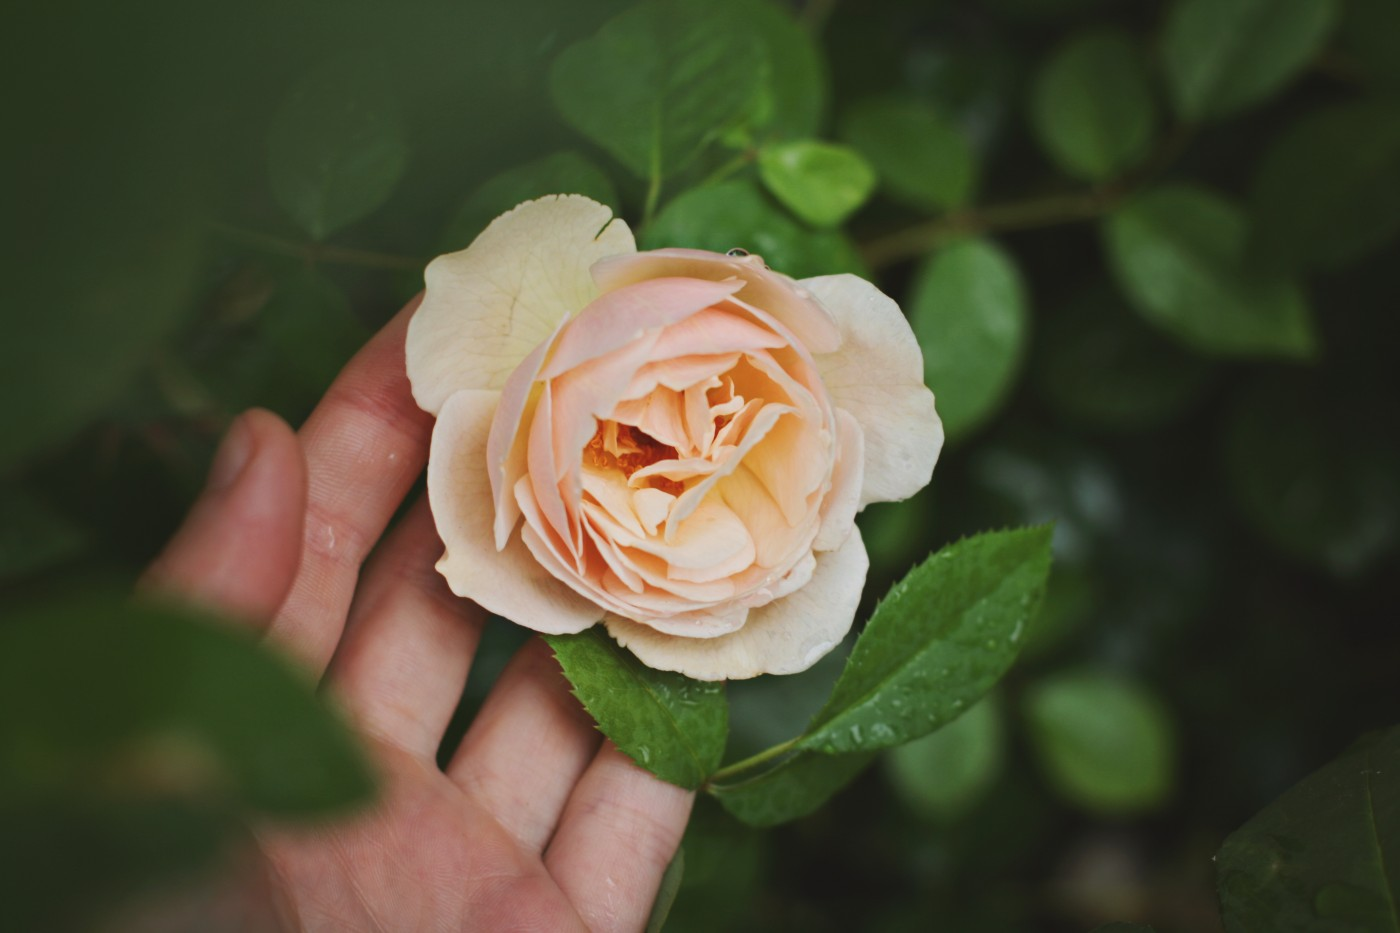
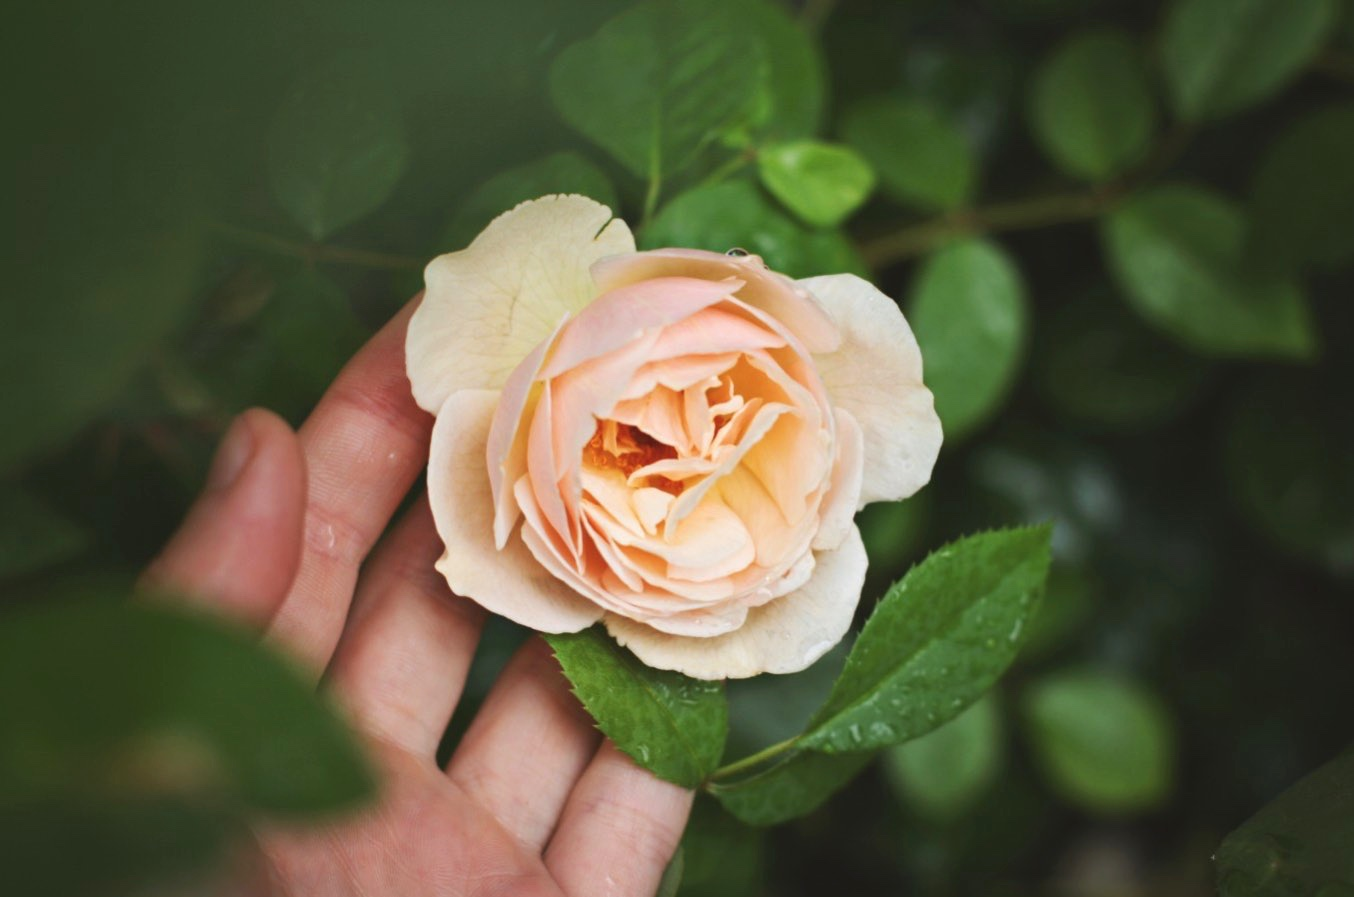
WIP changes to homepage

diff --git a/public/css/site.css b/public/css/site.css
@@ -936,20 +936,22 @@ body.home {
     color: white; }
 
 .section--first {
-  background-image: url("../../images/home-flower.jpg");
+  background-image: url("../../images/home-flower-darker.jpg");
   background-repeat: no-repeat;
   background-size: cover;
   background-position: center center;
-  min-height: 80%;
-  padding: 12em 1em 4em 1em; }
+  padding: 12em 1em 4em 1em;
+  min-height: 768px; }
   @media only screen and (max-width: 480px) {
     .section--first {
       padding: 8em 1.5em 3em 1.5em; } }
+  .section--first > div {
+    max-width: 800px; }
 
 .introduction {
   color: white; }
   .introduction .button {
-    margin-bottom: 1.5rem; }
+    margin: 2.5em 0 2.9em 0; }
 
 .introduction--logo-white {
   display: block;
@@ -991,17 +993,30 @@ body.home {
       transform: scale(1.05); }
 
 .introduction__headline {
-  font-size: 2.3em;
-  text-shadow: 1px 1px 1px rgba(0, 0, 0, 0.4); }
+  font-family: "Diehl Deco";
+  font-size: 2.6em;
+  text-shadow: 1px 1px 1px rgba(0, 0, 0, 0.4);
+  margin-bottom: .4em; }
   @media only screen and (max-width: 480px) {
     .introduction__headline {
       font-size: 2em; } }
 
-.scroll-instructions {
+.introduction__subheadline {
   font-family: "Learning Curve Pro";
+  text-align: center;
   line-height: .8;
-  font-size: 2.8em;
-  margin: 0 0 1em 0;
+  font-size: 3.3em;
+  margin-bottom: 0;
+  color: white;
+  text-shadow: 1px 1px 1px rgba(0, 0, 0, 0.4); }
+  @media only screen and (max-width: 480px) {
+    .introduction__subheadline {
+      font-size: 2.4em; } }
+
+.scroll-instructions {
+  line-height: .8;
+  font-size: 1.6em;
+  margin: 0 0 0.5em 0;
   text-shadow: 1px 1px 1px rgba(0, 0, 0, 0.4);
   text-align: center !important; }
   @media only screen and (max-width: 40em) {

diff --git a/public/styles/site/_homepage.scss b/public/styles/site/_homepage.scss
@@ -29,21 +29,24 @@ body.home {
 }
 
 .section--first {
-    background-image: url('../../images/home-flower.jpg');
+    background-image: url('../../images/home-flower-darker.jpg');
     background-repeat: no-repeat;
     background-size: cover;
     background-position: center center;
-    min-height: 80%;
     padding: 12em 1em 4em 1em;
+    min-height: 768px;
     @media only screen and (max-width: 480px) {
         padding: 8em 1.5em 3em 1.5em;
+    }
+    & > div {
+      max-width: 800px;
     }
 }
 
 .introduction {
     color: white;
     .button {
-        margin-bottom: 1.5rem;
+        margin: 2.5em 0 2.9em 0;
     }
 }
 
@@ -85,17 +88,31 @@ body.home {
 }
 
 .introduction__headline {
-    font-size: 2.3em;
+    font-family: $display-font;
+    font-size: 2.6em;
     text-shadow: $text-shadow-style;
+    margin-bottom: .4em;
     @media only screen and (max-width: 480px) {
         font-size: 2em;
     }
 }
+.introduction__subheadline {
+  font-family: $cursive;
+  text-align: center;
+  line-height: .8;
+  font-size: 3.3em;
+  margin-bottom: 0;
+  color: white;
+  text-shadow: $text-shadow-style;
+  @media only screen and (max-width: 480px) {
+    font-size: 2.4em;
+  }
+}
+
 .scroll-instructions {
-    font-family: $cursive;
     line-height: .8;
-    font-size: 2.8em;
-    margin: 0 0 1em 0;
+    font-size: 1.6em;
+    margin: 0 0 .5em 0;
     text-shadow: $text-shadow-style;
     text-align: center !important;
     @media only screen and (max-width: 40em) {
